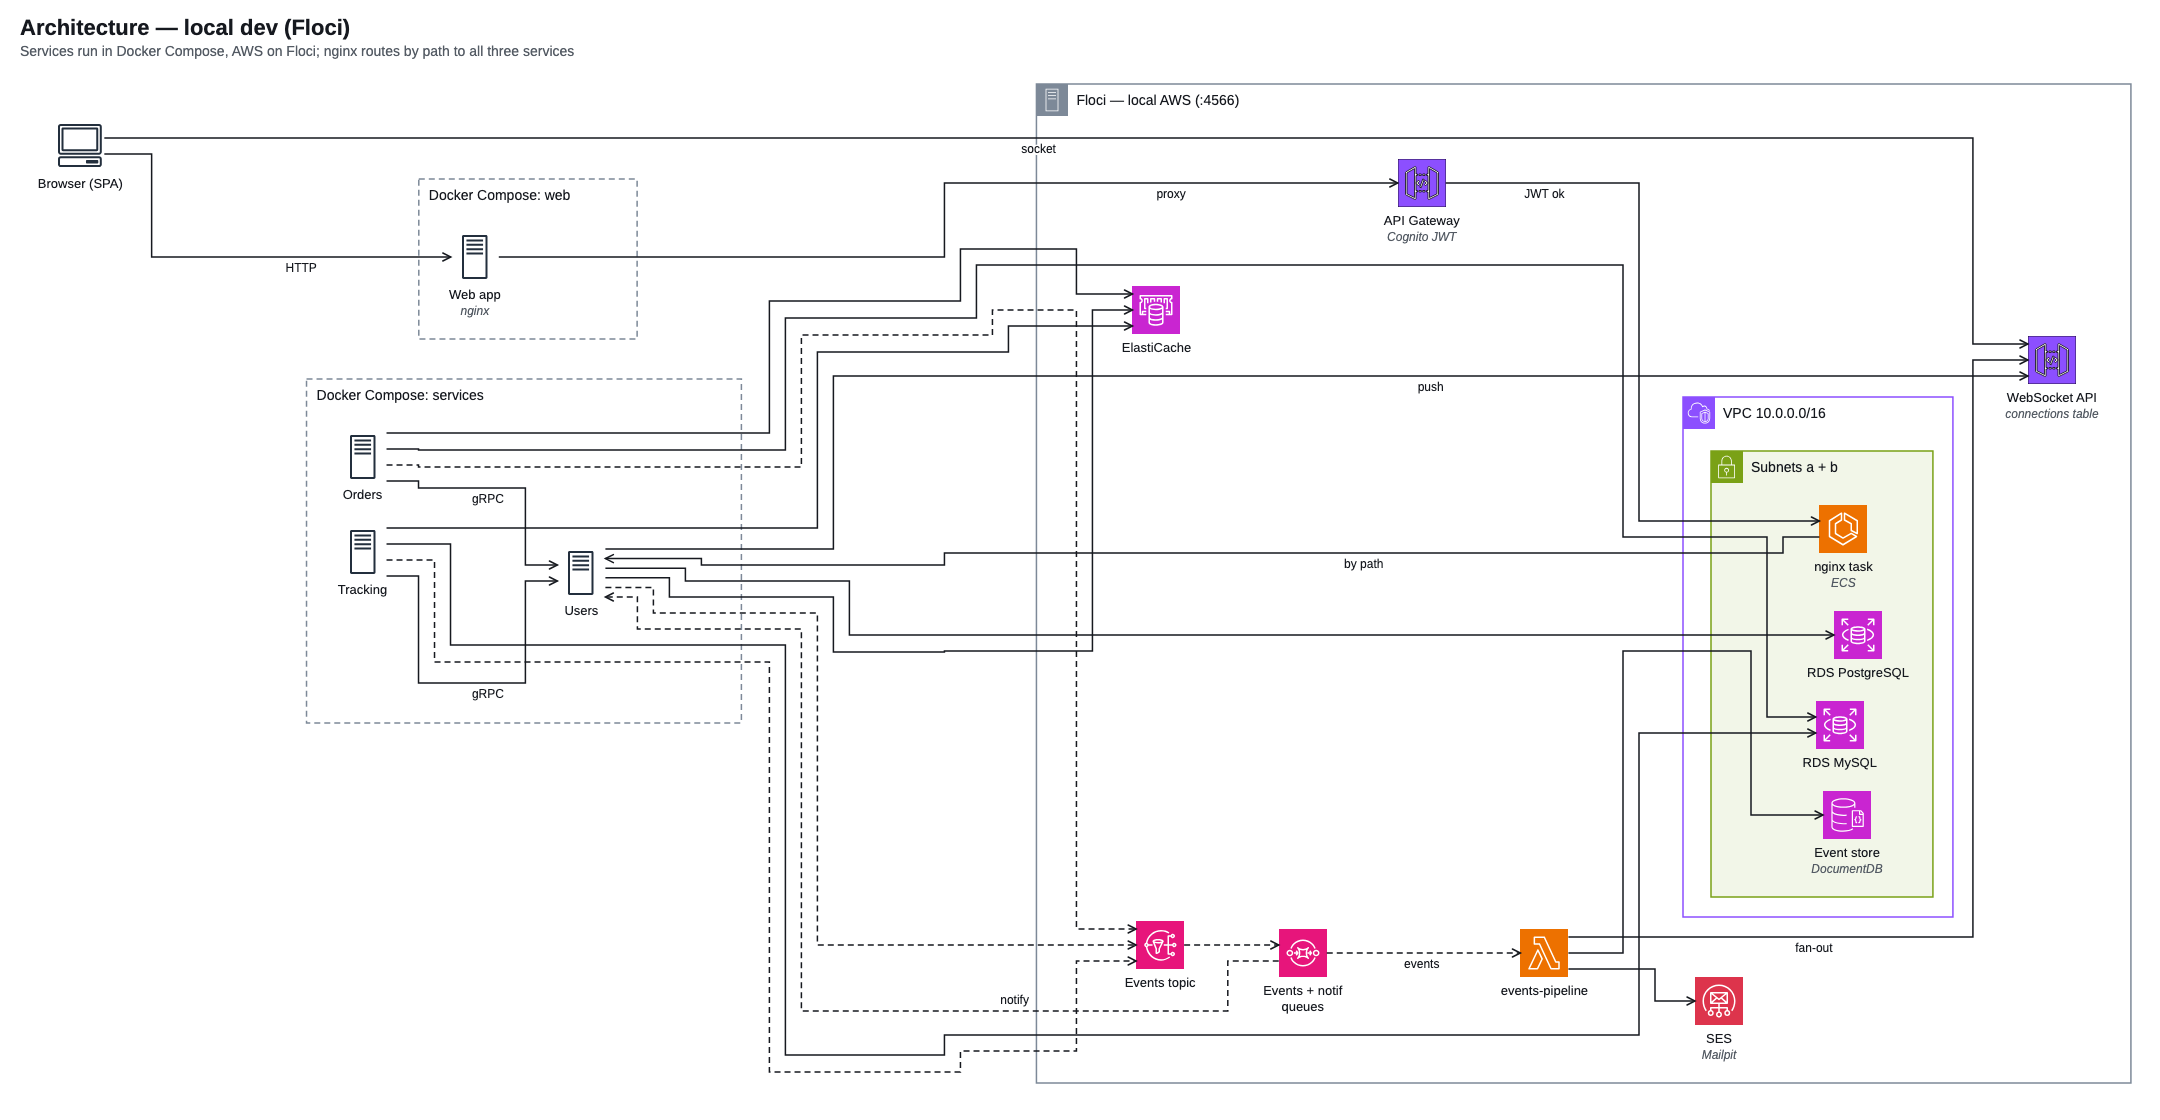
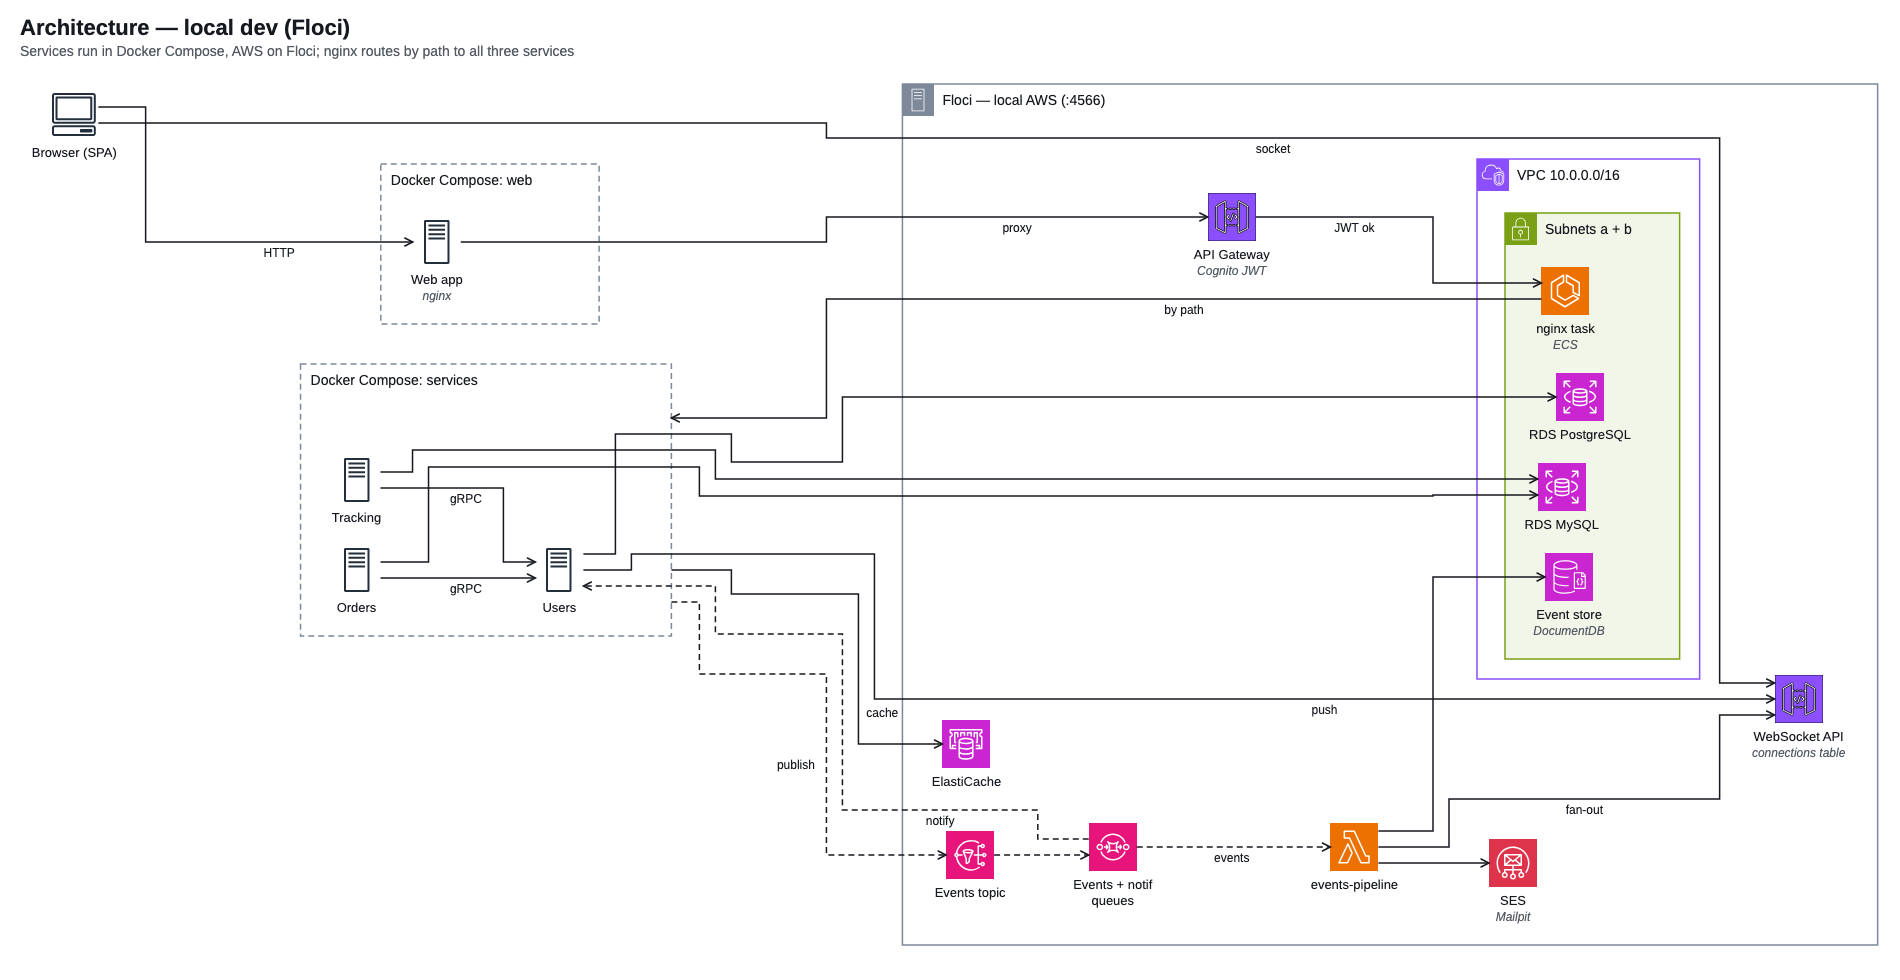
docs(infra): draw shared service connections once from the services group
Plan: docs/superpowers/plans/2026-10-07-aws-style-diagrams.md

diff --git a/diagrams/src/data/system-context/l2.ts b/diagrams/src/data/system-context/l2.ts
@@ -13,6 +13,7 @@ export const systemContextL2: z.input<typeof AwsDiagramData> = {
     { id: "cloud", kind: "aws-cloud", label: "AWS Cloud (as deployed in pre-prod)" },
     { id: "vpc", kind: "vpc", label: "VPC", parent: "cloud" },
     { id: "subnets", kind: "public-subnet", label: "Subnets a + b", parent: "vpc" },
+    { id: "services", kind: "generic", label: "Services", parent: "subnets" },
   ],
   nodes: [
     { id: "customer", label: "Customer", icon: "users" },
@@ -20,9 +21,9 @@ export const systemContextL2: z.input<typeof AwsDiagramData> = {
     { id: "apigw", label: "API Gateway", icon: "api-gateway", group: "cloud" },
     { id: "cognito", label: "Cognito", icon: "cognito", group: "cloud" },
     { id: "ws", label: "WebSocket API", sublabel: "connections table", icon: "api-gateway", group: "cloud" },
-    { id: "orders", label: "Orders", sublabel: ".NET", icon: "ecs", group: "subnets" },
-    { id: "users", label: "Users", sublabel: "Node.js", icon: "ecs", group: "subnets" },
-    { id: "tracking", label: "Tracking", sublabel: "Go", icon: "ecs", group: "subnets" },
+    { id: "orders", label: "Orders", sublabel: ".NET", icon: "ecs", group: "services" },
+    { id: "users", label: "Users", sublabel: "Node.js", icon: "ecs", group: "services" },
+    { id: "tracking", label: "Tracking", sublabel: "Go", icon: "ecs", group: "services" },
     { id: "pg", label: "Users DB", sublabel: "RDS Postgres", icon: "rds", group: "subnets" },
     { id: "mysql", label: "Orders + Tracking DB", sublabel: "RDS MySQL", icon: "rds", group: "subnets" },
     { id: "docdb", label: "Event store", sublabel: "DocumentDB", icon: "documentdb", group: "subnets" },
@@ -33,30 +34,24 @@ export const systemContextL2: z.input<typeof AwsDiagramData> = {
     { id: "lambda", label: "events-pipeline", icon: "lambda", group: "cloud" },
   ],
   edges: [
-    { id: "apigw-users", from: "apigw", to: "users" },
-    { id: "tracking-mysql", from: "tracking", to: "mysql" },
-    { id: "orders-redis", from: "orders", to: "redis" },
-    { id: "lambda-docdb", from: "lambda", to: "docdb" },
-    { id: "web-apigw", from: "web", to: "apigw", label: "proxy" },
-    { id: "sns-events", from: "sns", to: "events", async: true },
-    { id: "users-ws", from: "users", to: "ws", label: "push" },
-    { id: "orders-sns", from: "orders", to: "sns", async: true },
-    { id: "apigw-tracking", from: "apigw", to: "tracking" },
-    { id: "tracking-sns", from: "tracking", to: "sns", async: true },
-    { id: "tracking-redis", from: "tracking", to: "redis" },
     { id: "customer-web", from: "customer", to: "web", label: "HTTP" },
-    { id: "tracking-users", from: "tracking", to: "users", label: "gRPC" },
     { id: "customer-ws", from: "customer", to: "ws", label: "socket" },
+    { id: "web-apigw", from: "web", to: "apigw", label: "proxy" },
     { id: "apigw-cognito", from: "apigw", to: "cognito", label: "JWT" },
-    { id: "users-sns", from: "users", to: "sns", async: true },
-    { id: "orders-mysql", from: "orders", to: "mysql" },
+    { id: "apigw-services", from: "apigw", to: "services", label: "routes" },
     { id: "orders-users", from: "orders", to: "users", label: "gRPC" },
+    { id: "tracking-users", from: "tracking", to: "users", label: "gRPC" },
     { id: "users-pg", from: "users", to: "pg" },
-    { id: "apigw-orders", from: "apigw", to: "orders" },
+    { id: "orders-mysql", from: "orders", to: "mysql" },
+    { id: "tracking-mysql", from: "tracking", to: "mysql" },
+    { id: "services-redis", from: "services", to: "redis", label: "cache" },
+    { id: "services-sns", from: "services", to: "sns", label: "publish", async: true },
+    { id: "sns-events", from: "sns", to: "events", async: true },
     { id: "sns-notif", from: "sns", to: "notif", async: true },
     { id: "events-lambda", from: "events", to: "lambda", async: true },
-    { id: "users-redis", from: "users", to: "redis" },
+    { id: "lambda-docdb", from: "lambda", to: "docdb" },
     { id: "notif-users", from: "notif", to: "users", label: "notify", async: true },
+    { id: "users-ws", from: "users", to: "ws", label: "push" },
   ],
   steps: [],
 };

diff --git a/diagrams/src/data/architecture/preprod.ts b/diagrams/src/data/architecture/preprod.ts
@@ -14,6 +14,7 @@ export const architecturePreprod: z.input<typeof AwsDiagramData> = {
     { id: "region", kind: "region", label: "us-east-1", parent: "cloud" },
     { id: "vpc", kind: "vpc", label: "VPC", parent: "region" },
     { id: "subnets", kind: "public-subnet", label: "Subnets a + b (us-east-1a/b)", parent: "vpc" },
+    { id: "services", kind: "generic", label: "Service tasks", parent: "subnets" },
   ],
   nodes: [
     { id: "browser", label: "Browser (SPA)", icon: "client" },
@@ -21,9 +22,9 @@ export const architecturePreprod: z.input<typeof AwsDiagramData> = {
     { id: "deploy", label: "Task config", sublabel: "ECR + SSM", icon: "ecr", group: "region" },
     { id: "alb", label: "ALB", sublabel: "listener per service", icon: "elb", group: "subnets" },
     { id: "web", label: "Web task", icon: "ecs", group: "subnets" },
-    { id: "orders", label: "Orders task", icon: "ecs", group: "subnets" },
-    { id: "tracking", label: "Tracking task", icon: "ecs", group: "subnets" },
-    { id: "users", label: "Users task", icon: "ecs", group: "subnets" },
+    { id: "orders", label: "Orders task", icon: "ecs", group: "services" },
+    { id: "tracking", label: "Tracking task", icon: "ecs", group: "services" },
+    { id: "users", label: "Users task", icon: "ecs", group: "services" },
     { id: "obs", label: "Observability tasks", sublabel: "OTel, O2, Mailpit", icon: "ecs", group: "subnets" },
     { id: "rds", label: "RDS Postgres + MySQL", icon: "rds", group: "subnets" },
     { id: "docdb", label: "Event store", sublabel: "DocumentDB", icon: "documentdb", group: "subnets" },
@@ -39,18 +40,12 @@ export const architecturePreprod: z.input<typeof AwsDiagramData> = {
     { id: "alb-web", from: "alb", to: "web" },
     { id: "web-apigw", from: "web", to: "apigw", label: "proxy" },
     { id: "apigw-alb", from: "apigw", to: "alb", label: "routes" },
-    { id: "alb-users", from: "alb", to: "users", label: "listeners" },
+    { id: "alb-services", from: "alb", to: "services", label: "listeners" },
     { id: "orders-users", from: "orders", to: "users", label: "gRPC" },
     { id: "tracking-users", from: "tracking", to: "users", label: "gRPC" },
-    { id: "orders-rds", from: "orders", to: "rds" },
-    { id: "users-rds", from: "users", to: "rds" },
-    { id: "tracking-rds", from: "tracking", to: "rds" },
-    { id: "orders-redis", from: "orders", to: "redis" },
-    { id: "users-redis", from: "users", to: "redis" },
-    { id: "tracking-redis", from: "tracking", to: "redis" },
-    { id: "orders-sns", from: "orders", to: "sns", async: true },
-    { id: "users-sns", from: "users", to: "sns", async: true },
-    { id: "tracking-sns", from: "tracking", to: "sns", async: true },
+    { id: "services-rds", from: "services", to: "rds" },
+    { id: "services-redis", from: "services", to: "redis", label: "cache" },
+    { id: "services-sns", from: "services", to: "sns", label: "publish", async: true },
     { id: "sns-sqs", from: "sns", to: "sqs", async: true },
     { id: "sqs-lambda", from: "sqs", to: "lambda", label: "events", async: true },
     { id: "sqs-users", from: "sqs", to: "users", label: "notify", async: true },

diff --git a/diagrams/src/data/architecture/dev-floci.ts b/diagrams/src/data/architecture/dev-floci.ts
@@ -39,18 +39,14 @@ export const architectureDevFloci: z.input<typeof AwsDiagramData> = {
     { id: "web-apigw", from: "web", to: "apigw", label: "proxy" },
     { id: "browser-ws", from: "browser", to: "ws", label: "socket" },
     { id: "apigw-nginx", from: "apigw", to: "nginx", label: "JWT ok" },
-    { id: "nginx-users", from: "nginx", to: "users", label: "by path" },
+    { id: "nginx-compose", from: "nginx", to: "compose", label: "by path" },
     { id: "orders-users", from: "orders", to: "users", label: "gRPC" },
     { id: "tracking-users", from: "tracking", to: "users", label: "gRPC" },
     { id: "users-pg", from: "users", to: "pg" },
     { id: "orders-mysql", from: "orders", to: "mysql" },
     { id: "tracking-mysql", from: "tracking", to: "mysql" },
-    { id: "orders-redis", from: "orders", to: "redis" },
-    { id: "users-redis", from: "users", to: "redis" },
-    { id: "tracking-redis", from: "tracking", to: "redis" },
-    { id: "orders-sns", from: "orders", to: "sns", async: true },
-    { id: "users-sns", from: "users", to: "sns", async: true },
-    { id: "tracking-sns", from: "tracking", to: "sns", async: true },
+    { id: "compose-redis", from: "compose", to: "redis", label: "cache" },
+    { id: "compose-sns", from: "compose", to: "sns", label: "publish", async: true },
     { id: "sns-sqs", from: "sns", to: "sqs", async: true },
     { id: "sqs-lambda", from: "sqs", to: "lambda", label: "events", async: true },
     { id: "sqs-users", from: "sqs", to: "users", label: "notify", async: true },
